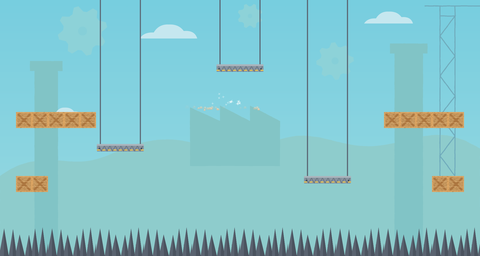
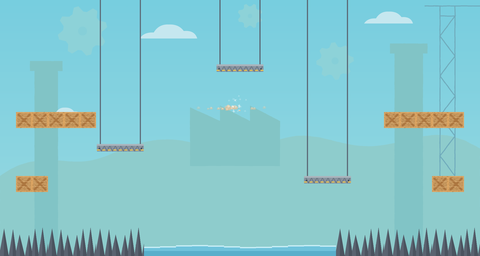
Ajustes de ritmo: bots não se distraem parados na borda, gangorras mais suaves, dicas das arenas, tour em vídeo e medição por submodo
Claude-Session: https://claude.ai/code/session_018QUPBRYpVzUA4ooVrpYmDH

Changed region(s): [[0.2812, 0.9062, 0.7188, 1.0], [0.4062, 0.375, 0.5625, 0.4375]]

diff --git a/docs/decisoes.md b/docs/decisoes.md
@@ -25,3 +25,8 @@
 - 2026-11-20 · Demolição ganha 6 arenas com mecânicas próprias (Canteiro, Fábrica de Esteiras que invertem, Guindastes com plataformas móveis, Maré de Lama que sobe, Bola de Demolição em pêndulo, Paiol de TNT em cadeia); tela de escolha com SORTEIO; mecânicas no cabeçalho do .lvl — usuário.
 - 2026-11-20 · Áudio: 32 efeitos e 3 músicas por síntese (sfxforge com camadas), vozes por modelo de robô, tom por jogador, volumes de música/efeitos nas OPÇÕES; opções salvas em user://opcoes.cfg — usuário.
 - 2026-11-20 · Fase 1 (ritmo): Amassômetro (dano % aumenta o empurrão), pulo duplo do propulsor, agarrar borda, 3 s de invulnerabilidade no início, água (volta do alto +25%) e rede (quica, rasga); crédito por derrubada e avisos. Medição com bots: rodada 14 s → 26 s, 1ª queda 4,7 → 9,2 s — usuário.
+- 2026-11-20 · Submodos (Último em Pé, Vidas, Placar 90 s, Batata-Dinamite) escolhidos antes da arena; fluxo Modo → Submodo → Arena → Ajustes → Entrada. Vitória mostra títulos (Marreteiro, Demolidor, Desastrado).
+- 2026-11-20 · Eventos dinâmicos (9) em modes/eventos.gd: frequência 0–3 e liga/desliga por evento nos AJUSTES; aviso de 2 s com faixa e som.
+- 2026-11-20 · 5 arenas novas com arquitetura própria: Torre (vertical, câmera sobe), Ponte (horizontal, câmera avança), Gangorras, Prensa, Fornalha. Máquinas: ventilador, chama, pistão, serra em trilho, barril, alavanca/alçapão, gangorra.
+- 2026-11-20 · 8 itens novos (gancho, ímã, tábua, furadeira, cola, bota-foguete, chave-bumerangue, mola portátil). Bota-foguete: segurar PULAR depois do ápice. Ímã empurra como esteira (a frenagem anulava força direta).
+- 2026-11-20 · Som: 18 efeitos novos, músicas por família de arena (fábrica, altura, caos), "locutor" de bipes nas faixas, música acelera 10% na tensão.

diff --git a/README.md b/README.md
@@ -19,6 +19,8 @@ Godot 4 estável, Python 3 com Pillow. Ajudam, se houver: `rsvg-convert`, Inksca
 
 ## Rodar (Marco 1)
 - Jogar: `godot --path game` (Godot 4.3+). Teclado A: WASD, Espaço pula, F marreta, G item · Teclado B: setas, Ctrl direito pula, ponto (.) marreta, vírgula item · Controle: A pula, X marreta, Y item · Enter começa. Abre no menu principal (▲▼ + Pular). Na entrada: B adiciona bot, N remove, M dificuldade, F11 tela cheia. Enter/Start pausa a partida.
-- Teste automático: `godot --headless --path game --fixed-fps 60 -- --autotest`
-- Regerar arte: `python3 art/src/robos/robos.py && python3 art/src/cenarios/canteiro.py && cp -r art/out/game/* game/assets/` (usa Node + Playwright/Chromium)
+- Demolição: JOGAR → DEMOLIÇÃO → submodo (Último em Pé, Vidas, Placar, Batata-Dinamite) → arena (11 + sorteio) → AJUSTES (★ para vencer, frequência e escolha de eventos, itens, ajuda para quem perde) → entrada.
+- Teste automático: `godot --headless --path game --fixed-fps 60 -- --autotest` (só uma parte: `-- --autotest --so=maquinas,itens_novos,eventos`)
+- Medir ritmo com bots: `godot --headless --path game --fixed-fps 60 -- --stats=4 [--sub=vidas] [--so-arenas=torre,ponte]` (grava `user://stats.json`)
+- Regerar arte: `python3 art/src/robos/robos.py && python3 art/src/cenarios/canteiro.py && python3 art/src/cenarios/arenas.py && python3 art/src/efeitos/itens.py && cp -r art/out/game/* game/assets/` (usa Node + Playwright/Chromium)
 - Sons e música: edite `audio/sfx/*.json` e `audio/music/*.json`, depois `python3 tools/sfxforge.py build && cp out/audio/sfx/*.wav game/assets/audio/sfx/ && cp out/audio/music/*.wav game/assets/audio/music/` (sons novos: atualize `game/assets/audio/sons.json`).

diff --git a/levels/README.md b/levels/README.md
@@ -21,3 +21,7 @@ Regras: spawns e elevador sobre sólido; `x` em volta (2 tiles) de spawns e do e
 - `mare_inicio: 6` · `mare_vel: 0.24` · `mare_topo: 2.6` (lama sobe)
 - `bola: pivo_x,pivo_y,comprimento,amplitude_graus,periodo`
 Nome e dica de cada arena: `data/modos.json` → `demolicao.arenas`.
+- `rolagem: cima|direita, vel_tiles_s, inicio_s` — câmera que rola; quem sai pelo lado de trás está fora (Torre, Ponte). Mapa pode ser maior que 30×16.
+- `gangorras: x,y,largura; ...` (x,y = topo do apoio, em tiles; x pode ter ,5) · `serras: x1,y,x2,periodo; ...` (serra no trilho embutida no chão da linha y)
+- Máquinas no mapa: `F` ventilador (`ventilador_ciclo: ligado,desligado`, `ventilador_alcance`) · `f` bico de chama (`chama_ciclo: apagada,aviso,acesa`) · `P` pistão no teto (`pistao_ciclo`) · `B` calha de barris (`barril_cada`, `barril_vel`; rola para o centro) · `L` alavanca + `a` alçapão (`alcapao_s`; marretada na alavanca abre todos)
+- `musica` de cada arena: `data/modos.json` → `demolicao.arenas` (partida, fabrica, altura, caos).
